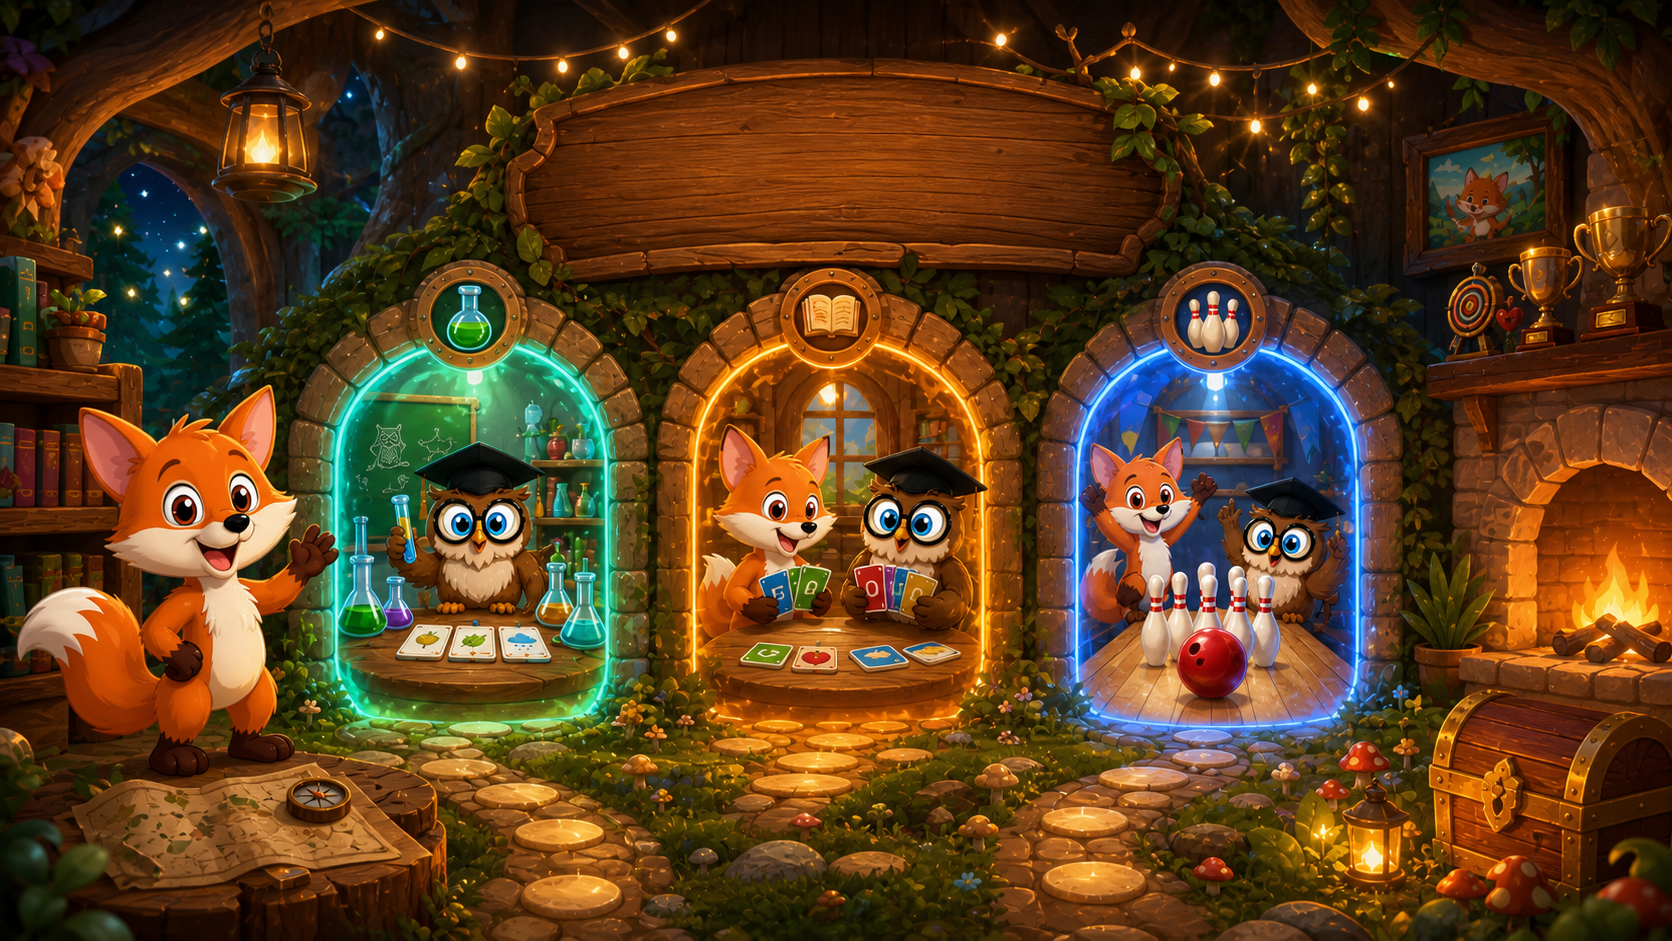
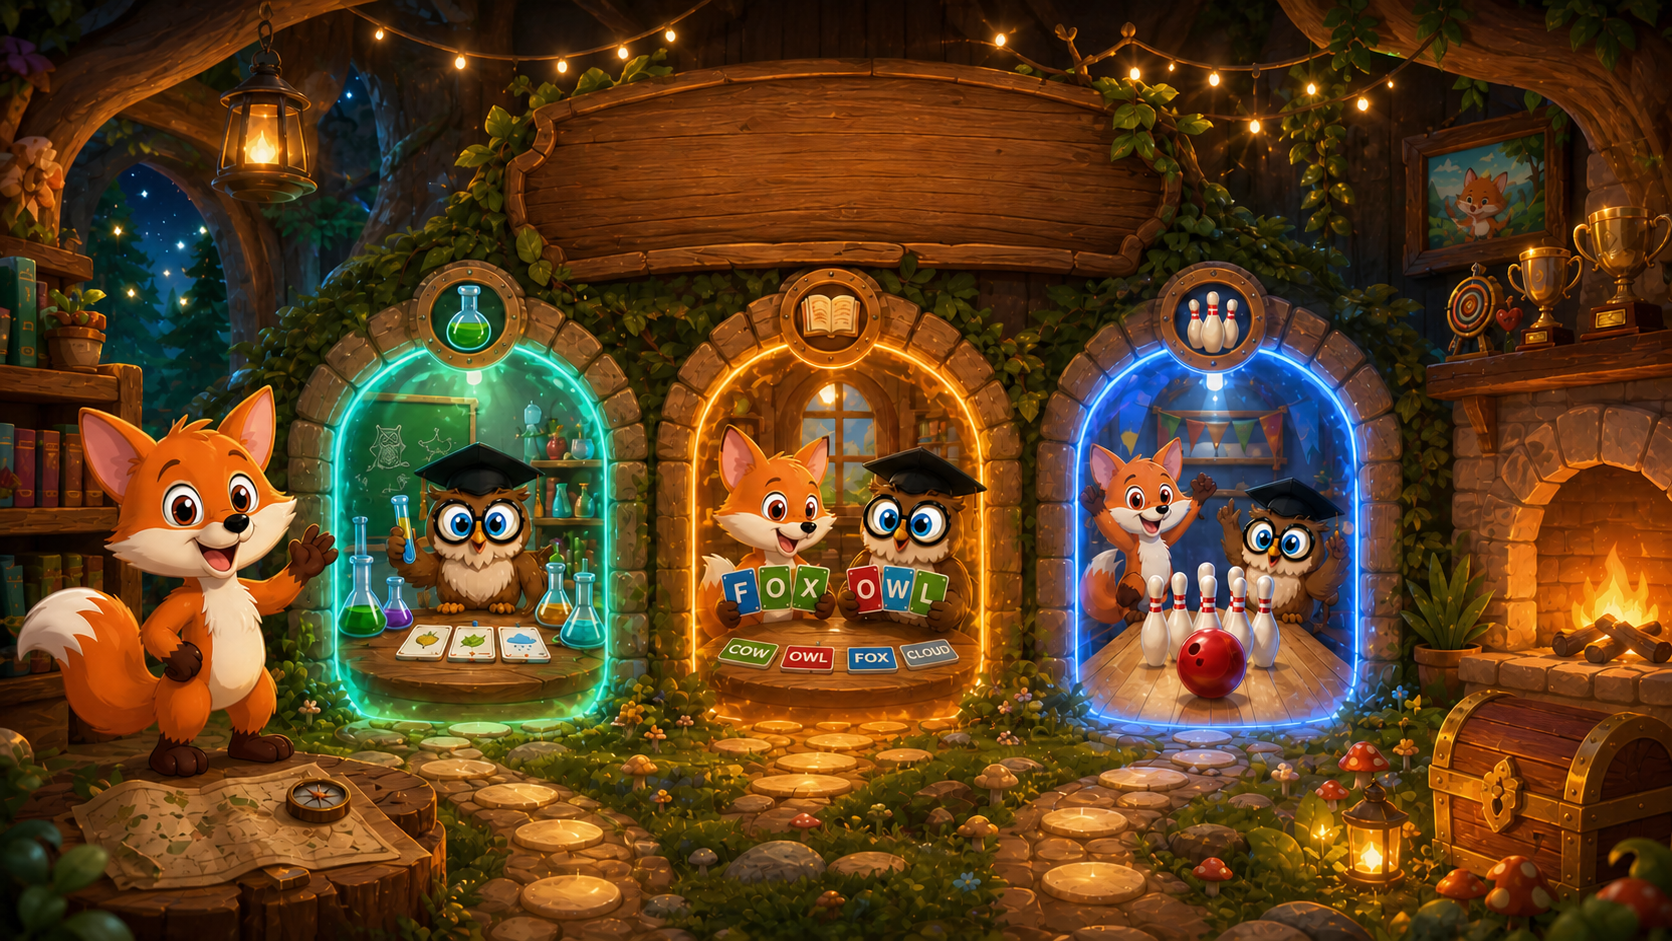
Replace card glyphs with readable English words

diff --git a/app.js b/app.js
@@ -16,7 +16,7 @@ function shell(content,active=''){return `<div class="app"><header class="topbar
 function go(screen){state.screen=screen;if(screen==='lab')initLab();if(screen==='uno')initUno();if(screen==='bowling')initBowling();render()}
 function toggleSound(){state.sound=!state.sound;render()}
 function render(){if(state.screen==='home')renderHome();if(state.screen==='lab')renderLab();if(state.screen==='uno')renderUno();if(state.screen==='bowling')renderBowling()}
-function renderHome(){app.innerHTML=shell(`<main class="screen home-screen"><img class="scene-bg" src="assets/home-3d.png?v=20260809-9" alt="Fox and Owl magical forest game room"><div class="title-plaque"><h1 class="hero-title">Choose Your<br><span>Adventure</span></h1></div><section class="game-grid">
+function renderHome(){app.innerHTML=shell(`<main class="screen home-screen"><img class="scene-bg" src="assets/home-3d.png?v=20260809-10" alt="Fox and Owl magical forest game room"><div class="title-plaque"><h1 class="hero-title">Choose Your<br><span>Adventure</span></h1></div><section class="game-grid">
 ${homeCard('lab','🧪',"The Owl’s Laboratory",'Match each English word to the right picture and brew a magic potion.','#13a980','#9af3dc55','🦉🔬','Play')}
 ${homeCard('uno','🃏','Word Uno: Fox vs Owl','Match a color, symbol, or sound pattern. Read every word aloud!','#e27019','#ffd77c55','🦊🦉','Start')}
 ${homeCard('bowling','🎳','Forest Bowling','Choose a mystery ball, read the word, and roll for your team.','#278dcc','#73c9ff55','🦊🎳🦉','Play')}

diff --git a/index.html b/index.html
@@ -8,12 +8,12 @@
   <link rel="preconnect" href="https://fonts.googleapis.com">
   <link rel="preconnect" href="https://fonts.gstatic.com" crossorigin>
   <link href="https://fonts.googleapis.com/css2?family=Baloo+2:wght@600;700;800&family=Nunito:wght@600;700;800&display=swap" rel="stylesheet">
-  <link rel="preload" href="assets/home-3d.png?v=20260809-9" as="image" />
-  <link rel="stylesheet" href="styles.css?v=20260809-9" />
-  <link rel="stylesheet" href="polish.css?v=20260809-9" />
+  <link rel="preload" href="assets/home-3d.png?v=20260809-10" as="image" />
+  <link rel="stylesheet" href="styles.css?v=20260809-10" />
+  <link rel="stylesheet" href="polish.css?v=20260809-10" />
 </head>
 <body>
   <div id="app"></div>
-  <script src="app.js?v=20260809-9"></script>
+  <script src="app.js?v=20260809-10"></script>
 </body>
 </html>
